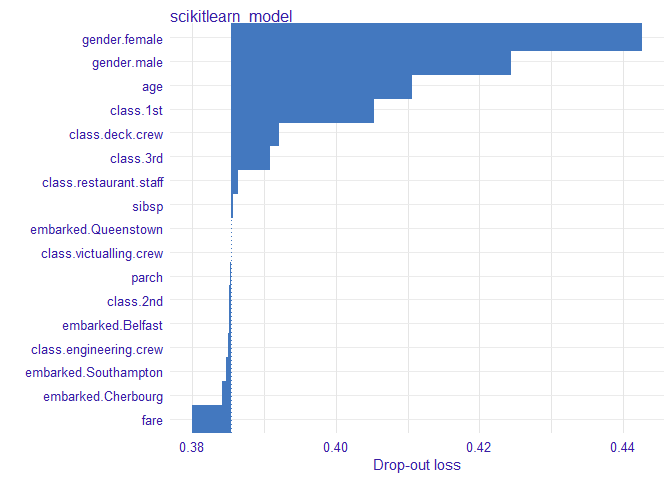
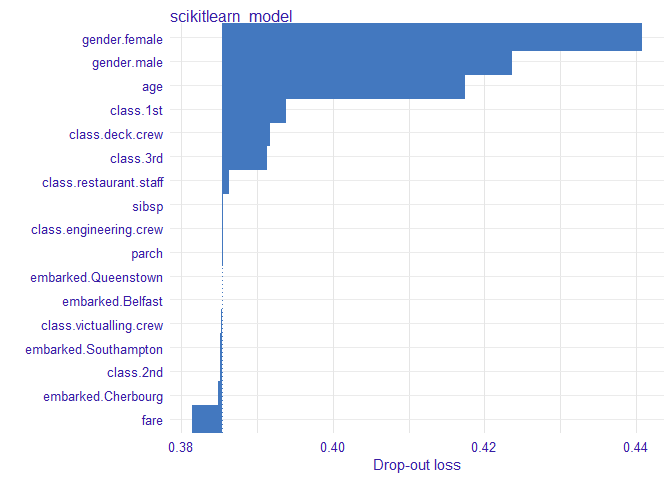
Final

diff --git a/README.md b/README.md
@@ -221,8 +221,8 @@ plot(feature_importance(explainer))
 describe(feature_importance(explainer))
 ```
 
-    ## The number of important variables for scikitlearn_model's prediction is 3 out of 17. 
-    ##  Variables gender.female, gender.male, age have the highest importantance.
+    ## The number of important variables for scikitlearn_model's prediction is 2 out of 17. 
+    ##  Variables gender.male, gender.female have the highest importantance.
 
 ``` r
 library(iBreakDown)
